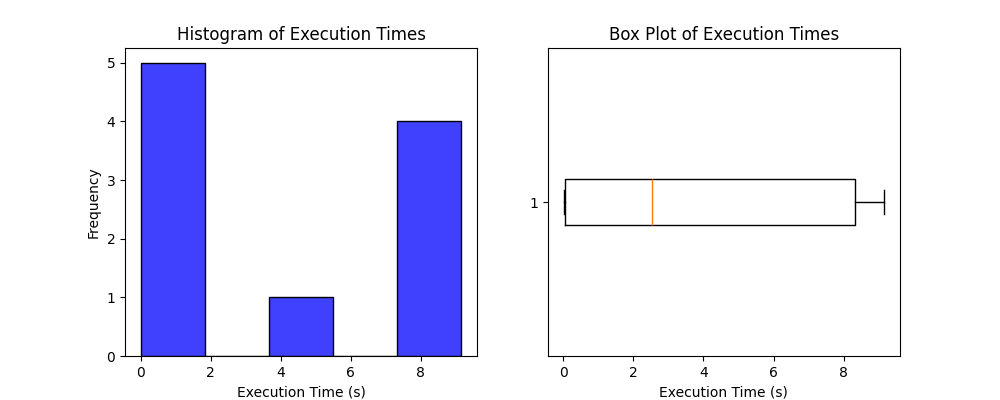
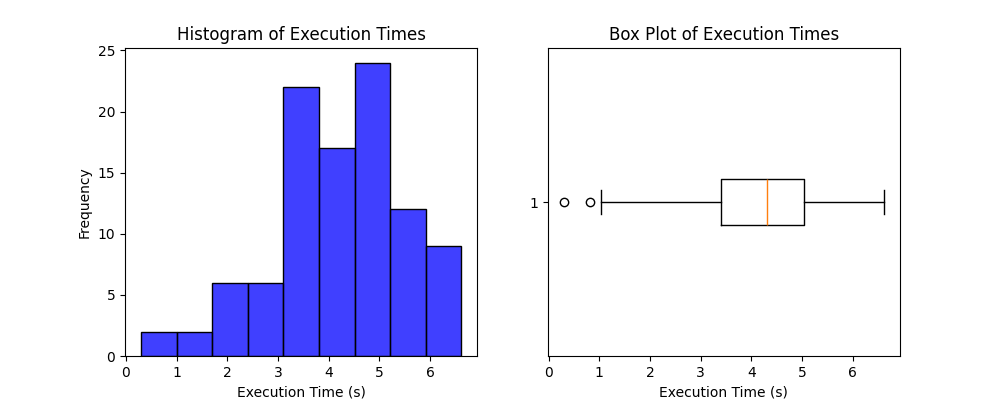
LV 100 sims in GEA

diff --git a/LV/pinn_lv_script.py b/LV/pinn_lv_script.py
@@ -51,7 +51,7 @@ class FCN(nn.Module):
     
 def get_obs_data(t,x,y):
     # Generate 8 equispaced time locations in the domain for fair comparison with ABC-SMC
-    obs_ind = np.linspace(0, len(t) - 1, 8, dtype=int)
+    obs_ind = np.linspace(0, len(t) - 1, 15, dtype=int)
     # Get solution at those time locations
     x_obs = np.array([x[ind] for ind in obs_ind])
     y_obs = np.array([y[ind] for ind in obs_ind])
@@ -73,13 +73,13 @@ def get_obs_data(t,x,y):
 def simulate(t_obs, u_obs_x, u_obs_y, t_physics, target_params, tol, max_its, lambda_weight):
     # Initialize PINN
     pinn = FCN(1,1,32,3) 
-    # Sample initial problems parameters from uniform 0 to 10 for comparison to be fair
-    a = torch.nn.Parameter(torch.empty(1).uniform_(0, 10), requires_grad=True)
-    b = torch.nn.Parameter(torch.empty(1).uniform_(0, 10), requires_grad=True)
-    c = torch.nn.Parameter(torch.empty(1).uniform_(0, 10), requires_grad=True)
-    d = torch.nn.Parameter(torch.empty(1).uniform_(0, 10), requires_grad=True)
+    # Sample initial problems parameters from uniform 0 to 5 for comparison to be fair
+    a = torch.nn.Parameter(torch.empty(1).uniform_(0, 5), requires_grad=True)
+    b = torch.nn.Parameter(torch.empty(1).uniform_(0, 5), requires_grad=True)
+    c = torch.nn.Parameter(torch.empty(1).uniform_(0, 5), requires_grad=True)
+    d = torch.nn.Parameter(torch.empty(1).uniform_(0, 5), requires_grad=True)
     # Define optimiser and make problem parameters learnable
-    optimiser = torch.optim.Adam(list(pinn.parameters())+[a,b,c,d],lr=1e-3)
+    optimiser = torch.optim.Adam(list(pinn.parameters())+[a,b,c,d],lr=1e-2)
     a_t, b_t, c_t, d_t = target_params[0], target_params[1], target_params[2], target_params[3]
     a_s, b_s, c_s, d_s = [], [], [], [] # To keep track of progress
     a_times, b_times, c_times, d_times = [], [], [], [] # To keep track of execution time at each iteration (for plotting purposes)
@@ -186,19 +186,19 @@ if __name__=="__main__":
     x0 = np.array([0.5,1]) # IC
     # Solving the problem
     t0, tf = 0, 15
-    num_points = 800
+    num_points = 1000
     x, t = RK4(f, x0, t0, tf, num_points)
     # Get observational data from the solution
     t_obs, u_obs_x, u_obs_y = get_obs_data(t, x[0], x[1])
     # Tensor of times to train PINN through physics loss
-    num_phys_locs = 1000
+    num_phys_locs = 700
     t_physics = torch.linspace(t0, tf, num_phys_locs).view(-1, 1).requires_grad_(True)
     # Hyperparameter deciding weight given to fitting observational data
     lambda_weight = 10
 
     # Simulation setup
-    num_sim = 10 # Number of simulations to run
-    tol = 7 # Tolerance to target needed to stop training
+    num_sim = 100 # Number of simulations to run
+    tol = 0.1 # Tolerance to target needed to stop training
     max_its = 20000
     # Target parameters
     target_params = [a,b,c,d]
@@ -212,7 +212,7 @@ if __name__=="__main__":
 
     for sim_id in tqdm.tqdm(range(1, num_sim+1)):
         a_s, a_times, b_s, b_times, c_s, c_times, d_s, d_times, final_time, stopped = simulate(t_obs, u_obs_x, u_obs_y, t_physics, target_params, tol, max_its, lambda_weight)
-        print(f'SIM {sim_id}: a={a_s[-1]}, b={b_s[-1]}, c={c_s[-1]}, d={d_s[-1]}, t = {final_time} s')
+        # print(f'SIM {sim_id}: a={a_s[-1]}, b={b_s[-1]}, c={c_s[-1]}, d={d_s[-1]}, t = {final_time} s')
         total_exec_times.append(final_time)
         last_a_times.append(a_times[-1])
         last_b_times.append(b_times[-1])
@@ -231,7 +231,7 @@ if __name__=="__main__":
     ax1.set_xlabel("Time (s)")
     ax1.set_ylabel("a value")
     ax1.set_xlim(0, max(last_a_times))
-    ax1.set_ylim(-2,12)
+    ax1.set_ylim(-1,6)
     # Adding horizontal lines for the tolerance range around 'a'
     ax1.axhline(y=a + tol, color='tab:blue', linestyle='dashed', linewidth=1, label=f'a + tol')
     ax1.axhline(y=a - tol, color='tab:red', linestyle='dashed', linewidth=1, label=f'a - tol')
@@ -243,7 +243,7 @@ if __name__=="__main__":
     ax2.set_xlabel("Time (s)")
     ax2.set_ylabel("b value")
     ax2.set_xlim(0, max(last_b_times))
-    ax2.set_ylim(-2, 12)
+    ax2.set_ylim(-1, 6)
     ax2.axhline(y=b + tol, color='tab:blue', linestyle='dashed', linewidth=1, label=f'b + tol')
     ax2.axhline(y=b - tol, color='tab:red', linestyle='dashed', linewidth=1, label=f'b - tol')
     ax2.fill_between([0, max(last_b_times)], b - tol, b + tol, color='green', alpha=0.3, label='Convergence Region')
@@ -253,7 +253,7 @@ if __name__=="__main__":
     ax3.set_xlabel("Time (s)")
     ax3.set_ylabel("c value")
     ax3.set_xlim(0, max(last_c_times))
-    ax3.set_ylim(-2, 12)
+    ax3.set_ylim(-1, 6)
     ax3.axhline(y=c + tol, color='tab:blue', linestyle='dashed', linewidth=1, label=f'c + tol')
     ax3.axhline(y=c - tol, color='tab:red', linestyle='dashed', linewidth=1, label=f'c - tol')
     ax3.fill_between([0, max(last_c_times)], c - tol, c + tol, color='green', alpha=0.3, label='Convergence Region')
@@ -263,7 +263,7 @@ if __name__=="__main__":
     ax4.set_xlabel("Time (s)")
     ax4.set_ylabel("d value")
     ax4.set_xlim(0, max(last_d_times))
-    ax4.set_ylim(-2, 12)
+    ax4.set_ylim(-1, 6)
     ax4.axhline(y=d + tol, color='tab:blue', linestyle='dashed', linewidth=1, label=f'd + tol')
     ax4.axhline(y=d - tol, color='tab:red', linestyle='dashed', linewidth=1, label=f'd - tol')
     ax4.fill_between([0, max(last_d_times)], d - tol, d + tol, color='green', alpha=0.3, label='Convergence Region')
